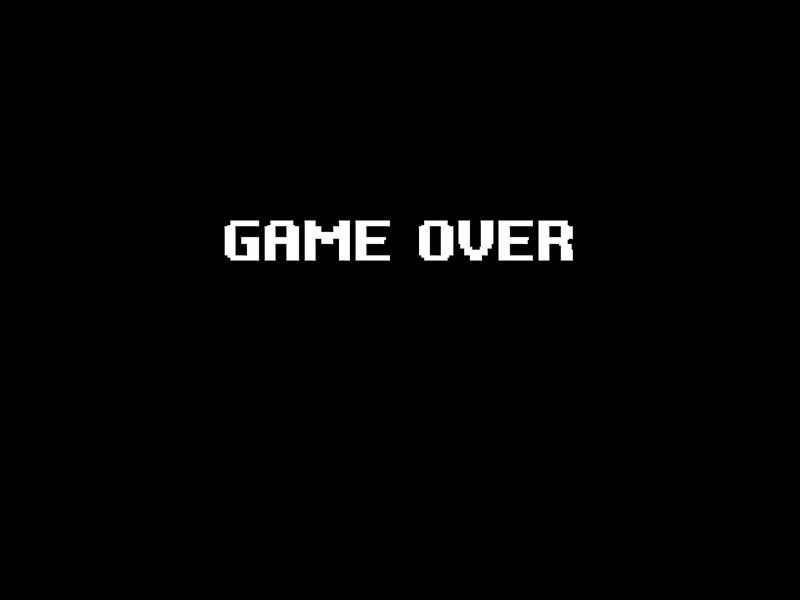
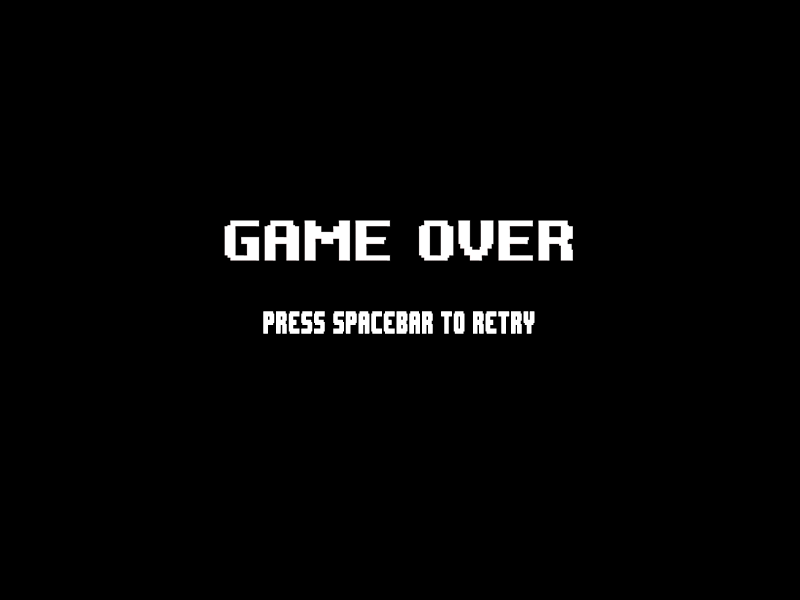
press space to try again

Changed region(s): [[0.3125, 0.51, 0.6875, 0.57]]

diff --git a/core/src/com/planet/game/WorldRenderer.java b/core/src/com/planet/game/WorldRenderer.java
@@ -7,7 +7,10 @@ import com.badlogic.gdx.graphics.Color;
 import com.badlogic.gdx.graphics.GL20;
 import com.badlogic.gdx.graphics.OrthographicCamera;
 import com.badlogic.gdx.graphics.Texture;
+import com.badlogic.gdx.graphics.g2d.BitmapFont;
 import com.badlogic.gdx.graphics.g2d.SpriteBatch;
+import com.badlogic.gdx.graphics.g2d.freetype.FreeTypeFontGenerator;
+import com.badlogic.gdx.graphics.g2d.freetype.FreeTypeFontGenerator.FreeTypeFontParameter;
 import com.badlogic.gdx.graphics.glutils.ShapeRenderer;
 import com.badlogic.gdx.graphics.glutils.ShapeRenderer.ShapeType;
 import com.badlogic.gdx.math.Rectangle;
@@ -31,6 +34,7 @@ public class WorldRenderer {
 	private Texture life2Img = new Texture ("life2.png");
 	private Texture life1Img = new Texture ("life1.png");
 	private Texture scoreImg = new Texture ("score.png");
+	private Texture tryagainImg = new Texture ("tryagainbutton.png");
 	private Texture gameoverImg = new Texture ("gameover.png");
 	private World world;
 	Ship ship;
@@ -47,6 +51,10 @@ public class WorldRenderer {
 	Array<Rectangle> bulletArray;
 	Rectangle enemy;
 	ShapeRenderer shapeRenderer;
+	FreeTypeFontGenerator generator;
+	FreeTypeFontParameter parameter;
+	private BitmapFont font;
+	
 	
 	public WorldRenderer(PlanetGame planetGame, World world) {
         this.planetGame = planetGame;
@@ -68,6 +76,7 @@ public class WorldRenderer {
         bullets = new Rectangle();
         enemy = new Rectangle();
         shapeRenderer = new ShapeRenderer();
+        font = new BitmapFont();
         
     }
 	
@@ -90,7 +99,7 @@ public class WorldRenderer {
         if(ship.getState() == Ship.STATE.LIVE) {
         	batch.draw(shipImg,ship.getPosition().x, ship.getPosition().y);
         }
-        
+        font.draw(batch, "" + world.getScore(),camera.position.x + 350, camera.position.y + 265);   
         batch.end();  
         drawBullet(batch);
         drawEnemyInQue(batch);
@@ -108,6 +117,7 @@ public class WorldRenderer {
 //        shapeCircleShip();
         
     }
+	
 	
 	private void drawBullet(SpriteBatch batch) {
 		batch.begin();
@@ -324,6 +334,7 @@ public class WorldRenderer {
         shapeRenderer.begin(ShapeType.Filled);
         shapeRenderer.setColor(Color.RED);
         shapeRenderer.circle(ship.getShipCircle().x, ship.getShipCircle().y, ship.getShipCircle().radius);
+        System.out.println(ship.getShipCircle().x+" "+ship.getPosition().x+" "+ship.getShipCircle().y+" "+ship.getPosition().y );
         shapeRenderer.end();
 	}
 	
@@ -349,6 +360,14 @@ public class WorldRenderer {
        			}
        		}
        	}
+	}
+	
+	public void getFont() {
+		generator = new FreeTypeFontGenerator(Gdx.files.internal("font/8-BIT WONDER.ttf"));
+		parameter = new FreeTypeFontParameter();
+		parameter.size = 18;
+		BitmapFont fontBit = generator.generateFont(parameter);
+		generator.dispose();
 	}
 	
 }

diff --git a/core/src/com/planet/game/World.java b/core/src/com/planet/game/World.java
@@ -19,9 +19,10 @@ public class World {
     private BulletEnemyQue bulletEnemyQue;
     private int min = 300;
 	private int max = 580;
+	private int score;
     Texture enemy1Img = new Texture("enemy1.png");
     Texture enemy2Img = new Texture("enemy2.png");
-    Texture enemy3Img = new Texture("1111.png");
+    Texture enemy3Img = new Texture("enemy3.png");
     int n = (int)(Math.random()*(max-min))+150;
     int m = (int)(Math.random()*(max-min))+150;
     int k = (int)(Math.random()*(max-min))+150;
@@ -39,6 +40,8 @@ public class World {
         bulletQue.initVariable(enemyQue);
         bulletEnemyQue = new BulletEnemyQue(this);
         worldRenderer = GameScreen.worldRenderer;
+        score = 0;
+        
     }
     
     
@@ -57,6 +60,10 @@ public class World {
 //    public Enemy getEnemy() {
 //    	return enemy1;
 //    }
+    
+    public int getScore() {
+    	return score;
+    }
     
     public void initVariable(WorldRenderer worldRenderer) {
     	ship.initVariable();
@@ -99,12 +106,16 @@ public class World {
        			if(enemy.getState() == Enemy.STATE.LIVE) {
            			enemy.update();
        			}
+       			else {
+       				if(enemy.checkScore == 1) {
+       		        	addScore();
+       		        }
+       			}
        		}
         }
         bulletEnemyQue.checkAllBullet();
         bulletEnemyQue.updateAllBullet();
         checkEnemyYPosition();
-       
     }
     
     public void checkEnemyYPosition() {
@@ -133,7 +144,7 @@ public class World {
     public void spawnEnemy() {
     	int prob = (int)(Math.random() * 1000)-1;
     	int n = (int)(Math.random()*(max-min))+150;
-    	if(lastSpawn == -1 || System.currentTimeMillis() - lastSpawn >= 1000) {
+    	if(lastSpawn == -1 || System.currentTimeMillis() - lastSpawn >= 1200) {
     		if(prob < 5) {
     			int nbImg = ((int)(Math.random() * 10) - 1) % 3;
     			Texture willBeUsed;
@@ -148,6 +159,24 @@ public class World {
     			lastSpawn = System.currentTimeMillis();
     		}
     	}
+    }
+    
+    public void addScore() {
+    	for(int j=enemyQue.getFront();;j++){
+        	int k = enemyQue.getRear();
+        	if(j==EnemyQue.sizeOfQue) {
+        		j=-1;
+       		}
+       		else if(j == k)
+       			break;
+       		else {
+       			Enemy enemy = enemyQue.getEnemyAt(j);
+       			if(enemy.getState() == Enemy.STATE.DIE && enemy.checkScore == 1) {
+           			score += 246;
+           			enemy.checkScore = 0;
+       			}
+       		}
+        }
     }
     
     public BulletQue getBulletQue() {

diff --git a/core/src/com/planet/game/GameScreen.java b/core/src/com/planet/game/GameScreen.java
@@ -19,7 +19,12 @@ public class GameScreen extends ScreenAdapter {
 	 
     public GameScreen(PlanetGame planetGame) {
         this.planetGame = planetGame;
-        world = new World(planetGame);
+        init();
+        
+    }
+    
+    public void init() {
+    	world = new World(planetGame);
         worldRenderer = new WorldRenderer(planetGame,world);
         ship = world.getShip();
         soundEffect = new SoundEffect();
@@ -27,7 +32,6 @@ public class GameScreen extends ScreenAdapter {
         soundEffect.getMusic().setVolume(0.5f);
         soundEffect.getMusic().play();
         world.initVariable(worldRenderer);
-        
     }
     
     private void update(float delta) {
@@ -70,8 +74,13 @@ public class GameScreen extends ScreenAdapter {
     	EnemyQue enemyQue = world.getEnemyQue();
     	Ship ship = world.getShip();
     	if(Gdx.input.isKeyJustPressed(Keys.SPACE)) {
-    		bulletQue.createBullet(ship.getPosition().x + 90,ship.getPosition().y + 35);
-    		soundEffect.getSoundShot().play(1.0f);
+    		if(ship.getState() == Ship.STATE.LIVE) {
+    			bulletQue.createBullet(ship.getPosition().x + 90,ship.getPosition().y + 35);
+    			soundEffect.getSoundShot().play(1.0f);
+    		}
+    		else {
+    			init();
+    		}
     	}
     	
     }

diff --git a/core/src/com/planet/game/BulletEnemyQue.java b/core/src/com/planet/game/BulletEnemyQue.java
@@ -126,8 +126,8 @@ public class BulletEnemyQue {
        		double Width = shipImg.getWidth();
        		double Height = shipImg.getHeight();
        		Vector2 bulletPos = bulletEnemy.getPosition();
-       		if(bulletPos.x >= ship.getPosition().x && bulletPos.x < ship.getPosition().x + Width) {
-       			if(bulletPos.y >= ship.getPosition().y && bulletPos.y < ship.getPosition().y + Height) {
+       		if(bulletPos.x >= ship.getShipCircle().x - 46 && bulletPos.x < ship.getShipCircle().x - 46 + Width) {
+       			if(bulletPos.y >= ship.getShipCircle().y - 40 && bulletPos.y < ship.getShipCircle().y - 40 + Height) {
    	   				notifyHitShipListener();
        				bulletEnemy.setState(BulletEnemy.STATE.OFF);
        				if(ship.getState() == Ship.STATE.DIE) {

diff --git a/core/src/com/planet/game/Enemy.java b/core/src/com/planet/game/Enemy.java
@@ -27,6 +27,7 @@ public class Enemy {
 //	private int max = 580;
 //	private int chance = 3;
 //	private int randomy;
+	public int checkScore;
 	
 	enum STATE {LIVE, DIE};
 	
@@ -39,6 +40,7 @@ public class Enemy {
 		this.state = STATE.LIVE;
 		this.lastTimeShoot = -1;
 		soundEffect = new SoundEffect();
+		checkScore = 1;
 		
 	}    
 //	public void EnemyArray() {
